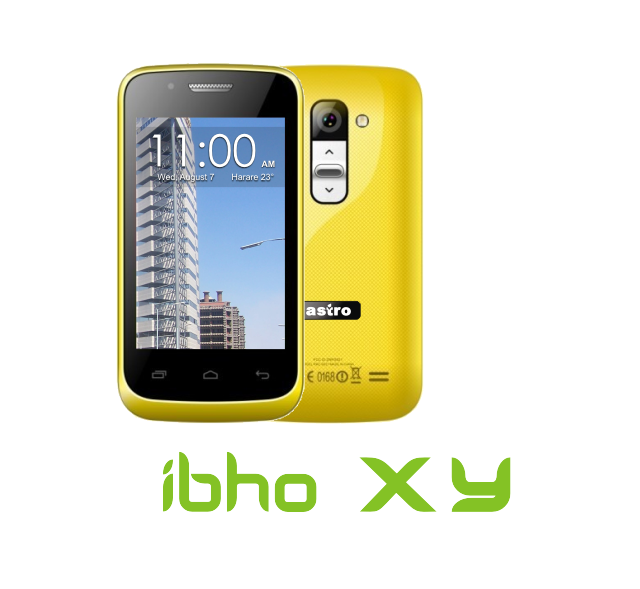
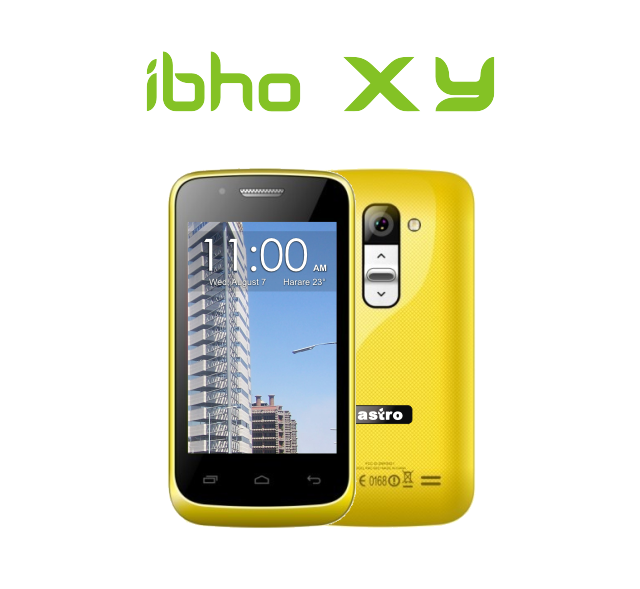
Home slider
New images for home slider

diff --git a/index.html b/index.html
@@ -230,7 +230,7 @@
                 <ul class="sequence-canvas">
                     <li class="sequence-slide1">
                         <div class="sequencebg">
-                            <img src="images/homeslider/slide1.png" alt="Slide 1 image" class="sequencebg-image">
+                            <img src="images/homeslider/slide1_1_ibho_bg.png" alt="Slide 1 image" class="sequencebg-image">
                         </div><!-- End .sequencebg -->
                         <div class="sequence-container container">
                             <img src="images/homeslider/slide1_1_c.png" alt="Model 1" class="sequence-model">
@@ -258,7 +258,7 @@
 
                     <li class="sequence-slide1">
                         <div class="sequencebg">
-                            <img src="images/homeslider/slide1.png" alt="Slide 1 image" class="sequencebg-image">
+                            <img src="images/homeslider/slide1_funbook.png" alt="Slide 1 image" class="sequencebg-image">
                         </div><!-- End .sequencebg -->
                         <div class="sequence-container container">
                             <img src="images/homeslider/slide1_1.png" alt="Model 1" class="sequence-model">
@@ -270,7 +270,7 @@
 
                     <li class="sequence-slide1">
                         <div class="sequencebg">
-                            <img src="images/homeslider/slide1.png" alt="Slide 1 image" class="sequencebg-image">
+                            <img src="images/homeslider/slide1_greenish2.png" alt="Slide 1 image" class="sequencebg-image">
                         </div><!-- End .sequencebg -->
                         <div class="sequence-container container">
                             <img src="images/homeslider/slide1_1_copy.png" alt="Model 1" class="sequence-model">
